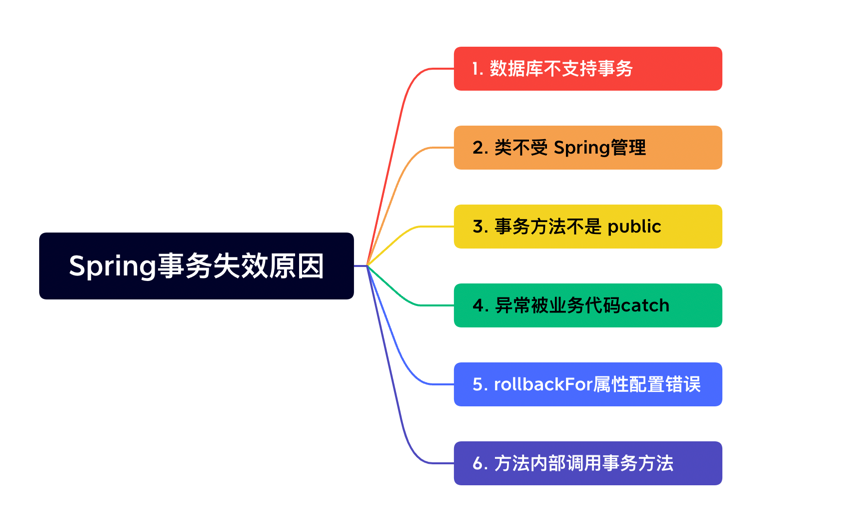
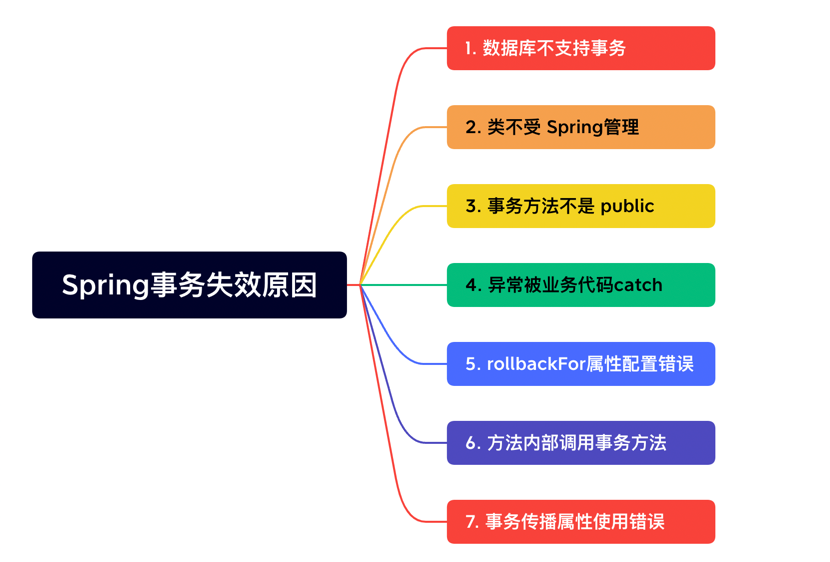
spring事务失效

Changed region(s): [[0.0301, 0.031, 0.8735, 0.9922]]

diff --git a/_posts/2022-10-05-spring-transaction-invalid.md b/_posts/2022-10-05-spring-transaction-invalid.md
@@ -3,8 +3,8 @@ layout: post
 title: Spring事务失效，我总结了这7个主要原因
 category: spring
 tags: [spring,面试]
-description: 关于 Spring 事务失效原因，我总结了这7个主要原因
-keywords: Spring 事务,事务失效
+description: Spring事务失效，我总结了这7个主要原因
+keywords: Spring 事务,事务失效,Spring AOP
 ---
 
 你好，我是Weiki，一个践行终身学习的程序员。
